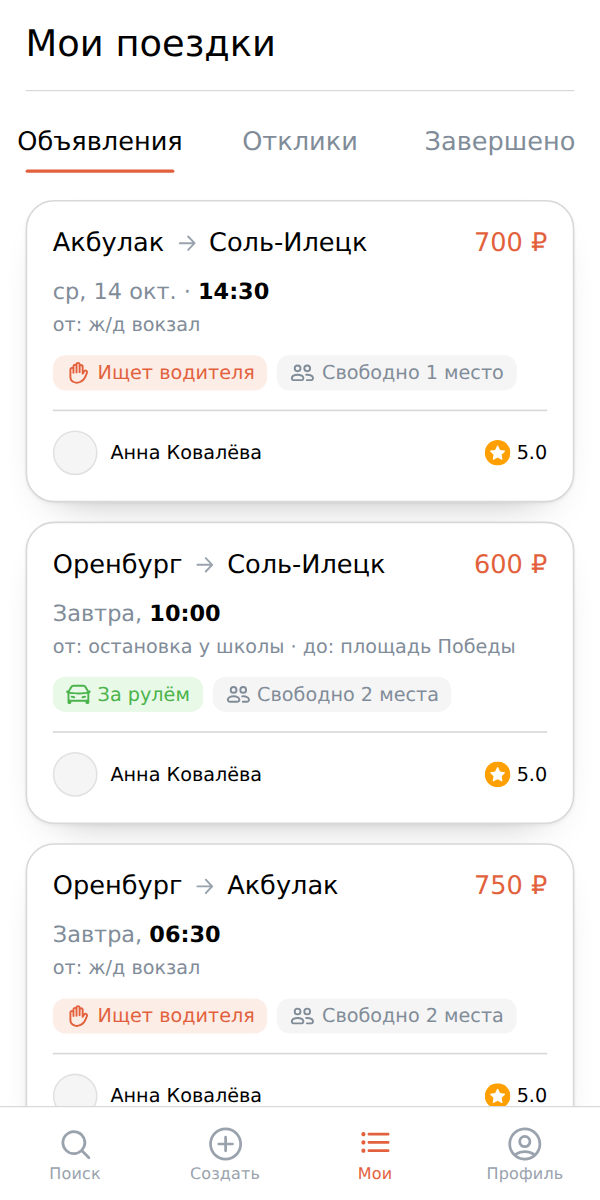
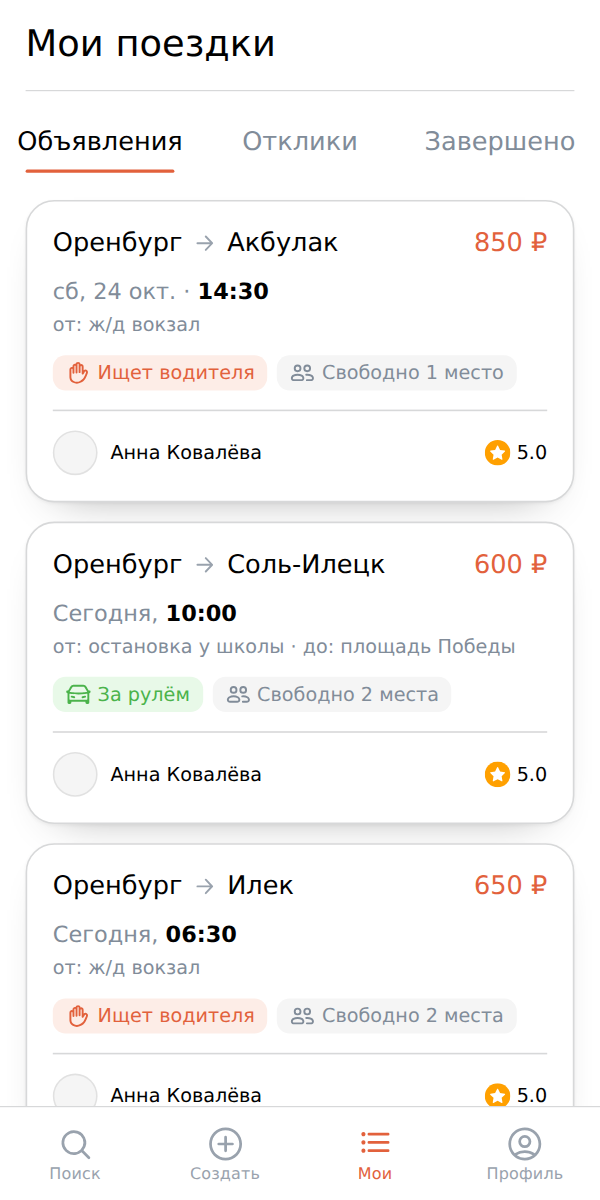
Карточка приложения переписана под восемь направлений
Описание в сторе говорило «Оренбург — Соль-Илецк — Акбулак» и «шесть
направлений между тремя городами». После 0.2.0 это неправда, а
расхождение карточки с приложением модерация находит первым делом.

Переписаны краткое описание, описание и ключевые слова: пять пунктов,
восемь направлений, радиальная схема, двухшаговый выбор маршрута. Добавлены
строки, которых раньше не было вообще: жалобы с разбором человеком и работа
при недоступном сервере.

Раздел «что собирает приложение» дополнен тем, что появилось с сентября:
идентификатор Telegram, @username, жалоба и её разбор, отметка о закрытом
доступе, дата согласия с политикой. Этот список идёт в ответы модерации, и
неполный он хуже, чем отсутствующий.

Ответ про возрастные ограничения исправлен: он говорил «специальных нет»,
а политика конфиденциальности в пункте 14.1 прямо называет 18+. Расхождение
между карточкой и собственной политикой — находка для модерации.

Скриншоты пересняты: на них был старый фильтр «Откуда» с тремя городами.
Новый набор снят на 375×750 с плотностью 1,6 (те же 600×1200 в пикселях):
поиск с двумя рядами выбора, чужая поездка — на ней видны «Позвонить» и
«Пожаловаться на объявление», — создание с выбранной спицей и обеими
сторонами, «Мои поездки». Условия съёмки записаны в design/README.md,
чтобы следующий набор получился таким же.

Claude-Session: https://claude.ai/code/session_01RjM5KUjrPyMD97q32CVPv1

diff --git a/design/store-copy.md b/design/store-copy.md
@@ -57,50 +57,47 @@
 
 ## Краткое описание
 
-До 128 символов. Этот вариант — 92 символа:
+До 128 символов. Этот вариант — 111 символов:
 
 ```
-Попутчики между Оренбургом, Соль-Илецком и Акбулаком. Поиск по дню, цене и числу мест
+Попутчики между Оренбургом и райцентрами: Соль-Илецк, Акбулак, Илек, Александровка. Поиск по дню, цене и местам
 ```
 
-85 символов. Если захочется короче (52 символа):
+Если захочется короче (51 символ):
 
 ```
-Попутчики между Оренбургом, Соль-Илецком и Акбулаком
+Попутчики между Оренбургом и райцентрами Оренбуржья
 ```
+
+Перечислять пункты в коротком поле стоит, пока их мало: человек из Илека
+ищет глазами своё название, а не слово «райцентры». Когда направлений
+станет больше шести, список перестанет помещаться — тогда остаётся
+короткий вариант.
 
 ---
 
 ## Описание
 
-До 2000 символов. Этот текст — 1100 символов, запас есть.
+До 2000 символов. Этот текст — 1549 символов, запас есть.
 
 ```
-Приложение для тех, кто регулярно ездит между Оренбургом, Соль-Илецком и
-Акбулаком.
+Приложение для тех, кто регулярно ездит между Оренбургом и районными центрами области: Соль-Илецком, Акбулаком, Илеком и Александровкой.
 
-Водитель публикует поездку и свободные места. Пассажир находит её в поиске
-и откликается. Дальше вы договариваетесь напрямую — в сообщениях ВКонтакте
-или по телефону.
+Водитель публикует поездку и свободные места. Пассажир находит её в поиске и откликается. Дальше вы договариваетесь напрямую — по телефону, в сообщениях ВКонтакте или в Telegram.
 
 Что умеет приложение:
 
-• Поиск по направлению и дню. Шесть направлений между тремя городами,
-  фильтры по цене, числу мест и роли — водитель или пассажир.
-• Публикация поездки за минуту. Направление, дата, время с шагом полчаса,
-  число мест и цена.
-• Отклики. Автор видит, кто откликнулся, и сам решает, кого взять.
-  Свободные места пересчитываются автоматически.
-• Связь. Страница ВКонтакте и звонок по номеру, если человек его указал.
-• Отзывы и рейтинг. После поездки участники оценивают друг друга, и в
-  следующий раз видно, с кем имеешь дело.
+• Поиск по направлению и дню. Восемь направлений: все поездки идут в Оренбург или из Оренбурга, прямых рейсов между райцентрами не бывает. Фильтры по цене, числу мест и роли — водитель или пассажир.
+• Публикация поездки за минуту. Маршрут выбирается в два шага: сначала пункт, затем сторона. Дальше дата, время с шагом полчаса, число мест и цена.
+• Отклики. Автор видит, кто откликнулся, и сам решает, кого взять. Свободные места пересчитываются автоматически.
+• Отзывы и рейтинг. После поездки участники оценивают друг друга, и в следующий раз видно, с кем имеешь дело.
+• Жалобы. На объявление, на отзыв и на профиль можно пожаловаться прямо из приложения. Жалобу разбирает человек: при подтверждённом нарушении содержимое удаляется, а нарушителю закрывается доступ.
+• Работа при плохой связи. Последние поездки вместе с номерами сохраняются на устройстве: если сервер недоступен, список всё равно откроется и по нему можно позвонить.
 
 Чего в приложении нет:
 
-• Оплаты внутри. Деньги передаются напрямую водителю, приложение в
-  расчётах не участвует.
-• Посредников. Это доска объявлений, а не служба заказа такси: все
-  договорённости — между вами.
+• Оплаты внутри. Деньги передаются напрямую водителю, приложение в расчётах не участвует.
+• Посредников. Это доска объявлений, а не служба заказа такси: все договорённости — между вами.
 
 Цена за место — от 500 до 850 ₽, её назначает автор поездки.
 ```
@@ -108,7 +105,13 @@
 > Про комиссию в описании намеренно не сказано ничего. Сейчас её нет, но
 > если появится монетизация для водителей, фраза «комиссию не берём» в
 > опубликованной карточке начнёт работать против вас — и объясняться
-> придётся и с пользователями, и с модерацией.
+> придётся и с пользователями, и с модерацией. Разбор моделей —
+> в `docs/monetization.md`.
+
+> Строка про оплату внутри — утверждение о сегодняшнем дне, а не
+> обещание навсегда. Если платежи появятся, эту строку придётся
+> переписать вместе с политикой конфиденциальности: сейчас она
+> платёжных данных не называет.
 
 ---
 
@@ -117,8 +120,7 @@
 Если в кабинете есть поле тегов или ключевых слов:
 
 ```
-попутчики, поездки, Оренбург, Соль-Илецк, Акбулак, подвезти, попутчик,
-совместные поездки, межгород, доска объявлений
+попутчики, поездки, Оренбург, Оренбуржье, Соль-Илецк, Акбулак, Илек, Александровка, подвезти, попутчик, совместные поездки, межгород, доска объявлений
 ```
 
 ---
@@ -131,31 +133,57 @@
 
 | Что | Откуда | Зачем |
 |---|---|---|
-| Идентификатор ВКонтакте | Подписанные launch-параметры запуска | Единственный способ понять, кто публикует поездку и кто откликается |
-| Имя, фамилия, фото, город | `VKWebAppGetUserInfo` | Показать автора поездки и участников откликов |
-| Номер телефона | Пользователь вводит сам либо подставляет из профиля ВКонтакте | Чтобы попутчики могли позвонить. Поле необязательное |
+| Идентификатор ВКонтакте | Подписанные launch-параметры запуска | Понять, кто публикует поездку и кто откликается |
+| Идентификатор Telegram | Подписанные данные запуска (`initData`) | То же самое для тех, кто пришёл из Telegram |
+| @username в Telegram, если он есть | Те же подписанные данные | Кнопка «Написать»: диалог открывается только по имени |
+| Имя, фамилия, фото, город | Профиль той площадки, через которую человек вошёл | Показать автора поездки и участников откликов |
+| Номер телефона | Пользователь вводит сам либо подставляет из профиля ВКонтакте | Чтобы попутчики могли позвонить. Обязателен тем, у кого нет страницы ВКонтакте: иначе с ними не связаться |
 | Текст объявлений, откликов и отзывов | Вводит пользователь | Содержание самого сервиса |
+| Жалоба: объект, причина, пояснение | Пользователь, который жалуется | Постмодерация содержимого |
+| Отметка о закрытом доступе и её дата | Ставит оператор по подтверждённой жалобе | Не пускать нарушителя обратно |
+| Дата согласия с политикой конфиденциальности | Фиксируется при первом входе | Подтверждение согласия на обработку |
 
 Данные хранятся на собственном сервере владельца приложения. Третьим лицам
 не передаются, в рекламные сети и аналитику не уходят — ни то, ни другое в
 приложении не подключено.
 
+Политика конфиденциальности: <https://vk-rideshare.duckdns.org/privacy>,
+действующая редакция от 13.10.2026.
+
 ---
 
 ## Ответы на типичные вопросы модерации
 
-**Как приложение зарабатывает?** Сейчас никак. Платежей внутри
-приложения нет, оплата поездки происходит напрямую между пассажиром и
-водителем. Способы монетизации рассматриваются, но ни один не запущен.
+**Как приложение зарабатывает?** Сейчас никак. Платежей внутри приложения
+нет, оплата поездки происходит напрямую между пассажиром и водителем.
+Способы монетизации рассматриваются, но ни один не запущен.
 
 **Кто отвечает за поездку?** Участники договариваются между собой.
 Приложение — доска объявлений, оно не организует перевозку и не выступает
 стороной договора.
 
-**Как модерируется содержимое?** Публиковать может только авторизованный
-пользователь ВКонтакте: каждый запрос несёт подписанные launch-параметры,
-анонимных объявлений не бывает. Автор отвечает за своё объявление, у
-участников есть рейтинг и отзывы.
+**Как модерируется пользовательское содержимое?** Постмодерация с жалобами
+прямо в интерфейсе:
 
-**Есть ли возрастные ограничения?** Специальных нет; приложение не содержит
-материалов, требующих ограничения.
+- кнопка «Пожаловаться» есть у объявления, у отзыва и у профиля;
+- причина выбирается из закрытого списка: реклама или спам, оскорбления,
+  обман, чужие персональные данные, другое (в последнем случае пояснение
+  обязательно);
+- жалобы разбирает человек — владелец приложения, через отдельный экран
+  внутри приложения;
+- по подтверждённой жалобе содержимое удаляется, а нарушителю закрывается
+  доступ: он не может ни публиковать, ни откликаться;
+- анонимных публикаций не бывает: каждый запрос несёт подписанные данные
+  запуска площадки, автор известен всегда;
+- адрес для обращений, в том числе для спора о закрытом доступе, указан в
+  политике конфиденциальности, раздел 15.
+
+**Есть ли возрастные ограничения?** Да. Политика конфиденциальности
+(пункт 14.1) указывает, что сервис не предназначен для лиц младше 18 лет и
+целенаправленный сбор данных несовершеннолетних не ведётся. Если в кабинете
+есть поле возрастного ограничения, значение в нём должно совпадать с этим
+пунктом — расхождение карточки и политики модерация находит быстро.
+
+**Где политика конфиденциальности?** <https://vk-rideshare.duckdns.org/privacy>
+— постоянный адрес, та же ссылка указана в приложении на экране согласия и
+в профиле.

diff --git a/design/README.md b/design/README.md
@@ -11,7 +11,7 @@
 | `app-icon-small.svg` · `app-icon-32.png` | упрощённый знак и фавикон: в 32 px пунктир маршрута рассыпается, поэтому для мелких размеров оставлена одна метка |
 | `app-cover.svg` · `app-cover-1590x400.png` | широкая обложка |
 | `app-snippet.svg` · `app-snippet-1120x630.png` | большой сниппет для ленты |
-| `store/screen-*.png` | скриншоты 600×1200 для карточки |
+| `store/screen-*.png` | скриншоты 600×1200 для карточки: поиск, поездка глазами гостя, создание, «Мои поездки» |
 | `app-icon-loader.json` · `scripts/build-lottie.py` | анимированная иконка загрузки (Lottie, 96×96) и её генератор |
 | `app-icon-loader-frames.png` | раскадровка анимации — для проверки глазами |
 | `store-copy.md` | тексты карточки и перечень требований кабинета |
@@ -33,6 +33,27 @@
 - **Никакой типографики.** Буквы в аватарке нечитаемы в размере списка.
 
 Знак проверен в размере 128×128 — маршрут и метка различимы.
+
+## Скриншоты для карточки
+
+Сняты с локального приложения на сид-данных: окно 375×750 с плотностью 1,6
+(ровно 600×1200 в пикселях — размер, который требует кабинет), светлая
+тема. Ширина 375 выбрана не ради размера, а ради вёрстки: в более узком
+окне подписи полей обрезаются, и это видно на снимке.
+
+Что на каждом и почему:
+
+- **поиск** — два ряда выбора маршрута, спица и сторона: именно это
+  изменилось в 0.2.0;
+- **поездка** — чужая, а не своя: только у гостя видны «Позвонить»,
+  «Профиль» и «Пожаловаться на объявление», а последнее модерация
+  площадки проверяет отдельно;
+- **создание** — выбранная спица и обе стороны, чтобы было видно, что
+  городов руками не вводят;
+- **мои поездки** — вкладки и список своих объявлений.
+
+Пересняты после правки интерфейса — карточка с чужими скриншотами
+выглядит как чужая.
 
 ## Обложка
 
